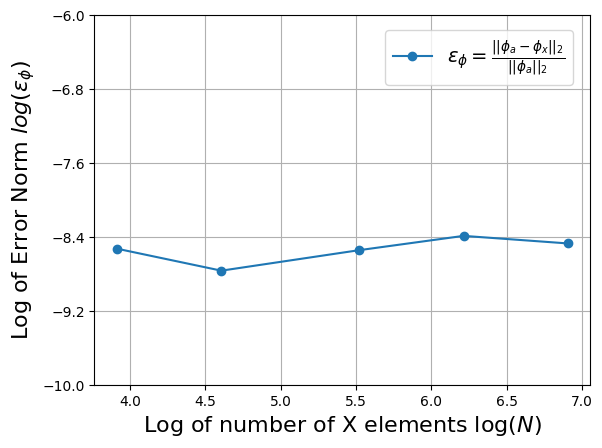
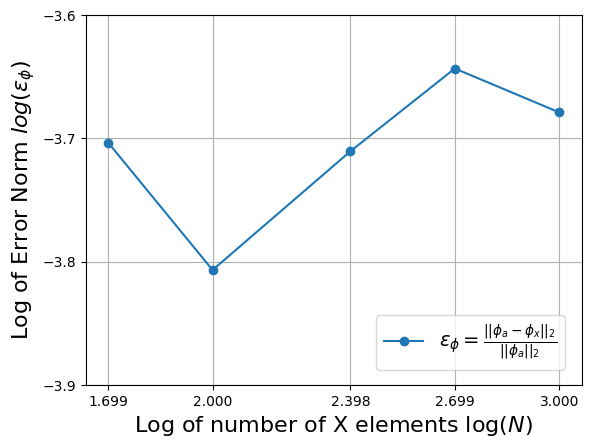
switched to log10

diff --git a/simulations/visualization/no_ss_no_mesh_template_flux_relaxation_on/viz.py b/simulations/visualization/no_ss_no_mesh_template_flux_relaxation_on/viz.py
@@ -10,7 +10,7 @@ import pandas as pd
 # list mesh element sizes that will be used to iterate through all cases
 # n_elems = [50,100,250,500,1000]
 n_elems = [50,100,250,500,1000]
-log_N = np.log(n_elems)
+log_N = np.log10(n_elems)
 L = 106.47 # equilibrium length from paper
 P = 1.0e22 # eV/s
 T0 = 293 # K
@@ -128,11 +128,12 @@ for n in n_elems:
     filename = f"openmc_{n}_out.csv"
     df_norms = pd.read_csv(filename)
     last_val  = df_norms.iloc[len(df_norms)-1,-1]
-    log_temp_error_norms.append(np.log(last_val))
-
+    log_temp_error_norms.append(np.log10(last_val))
+print(log_temp_error_norms)
 # plot the error for each threshold against the number of mesh elements
 plt.plot(log_N,log_temp_error_norms,'-ro',label=r'$\epsilon_{T}=\frac{||T_{a} - T_{x} ||_{2}}{|| T_{a} ||_{2}}$')
-plt.yticks(np.linspace(-6,-10,6))
+plt.xticks(log_N)
+plt.yticks([-2.75,-3,-3.25,-3.5,-3.75,-4,-4.25])
 # plt.ticklabel_format(axis='y', style='sci', scilimits=(0,0))
 plt.xlabel(r"Log of number of X elements $\log(N)$",fontsize=16)
 plt.ylabel(r"Log of Error Norm $log(\epsilon_{T})$",fontsize=16)
@@ -144,36 +145,37 @@ plt.clf()
 
 # linear polynomial fit to get slope of line of best fit temp
 pt = np.polyfit(log_N,log_temp_error_norms,1)
-print("polyfit:" , pt)
+print("polyfit pt:" , pt)
 
-# compute flux error norm
-flux_deviations = {}
-flux_dev_norms = {}
-analytical_norms = {}
-flux_error_norms = {}
-# flux error ratio
-for n in n_elems:
-    flux_deviations[n] = []
-    # compute mean, stdev, and analytical - numerical
-    for i in range(n):
-        flux_deviations[n].append(analytical_phi[n][i]-cardinal_fluxes[n][i])
-    flux_dev_norms[n] = np.linalg.norm(flux_deviations[n],ord=2)
-    analytical_norms[n] = np.linalg.norm(analytical_phi[n],ord=2)
-    # ratio is error norm
-    flux_error_norms[n] = flux_dev_norms[n]/analytical_norms[n]
+# MOVED TO RESTARTS DIRECTORY BUT COMMENTED OUT FOR POSTERITY
+# # compute flux error norm
+# flux_deviations = {}
+# flux_dev_norms = {}
+# analytical_norms = {}
+# flux_error_norms = {}
+# # flux error ratio
+# for n in n_elems:
+#     flux_deviations[n] = []
+#     # compute mean, stdev, and analytical - numerical
+#     for i in range(n):
+#         flux_deviations[n].append(analytical_phi[n][i]-cardinal_fluxes[n][i])
+#     flux_dev_norms[n] = np.linalg.norm(flux_deviations[n],ord=2)
+#     analytical_norms[n] = np.linalg.norm(analytical_phi[n],ord=2)
+#     # ratio is error norm
+#     flux_error_norms[n] = flux_dev_norms[n]/analytical_norms[n]
 
-log_flux_error_norms = [np.log(flux_error_norms[n]) for n in n_elems]
-print(log_flux_error_norms)
-# linear polynomial fit to get slope of line of best fit
-pf = np.polyfit(log_N,log_flux_error_norms,1)
-print("polyfit:" , pf)
+# log_flux_error_norms = [np.log10(flux_error_norms[n]) for n in n_elems]
+# print(log_flux_error_norms)
+# # linear polynomial fit to get slope of line of best fit
+# pf = np.polyfit(log_N,log_flux_error_norms,1)
+# print("polyfit pf:" , pf)
 
-plt.plot(log_N,log_flux_error_norms,'-o',label=r'$\epsilon_{\phi}=\frac{||\phi_{a} - \phi_{x} ||_{2}}{|| \phi_{a} ||_{2}}$')
-plt.xlabel(r"Log of number of X elements $\log(N)$",fontsize=16)
-plt.ylabel(r"Log of Error Norm $log(\epsilon_{\phi})$",fontsize=16)
-# plt.title("Flux Error Norm vs Mesh Size \n 200 Picard Iterations with Relaxation")
-plt.yticks(np.linspace(-6,-10,6))
-plt.grid()
-plt.legend(bbox_to_anchor=[0.985,0.985],fontsize=14)
-plt.savefig("flux_error_norms.png",bbox_inches='tight')
-plt.clf()
+# plt.plot(log_N,log_flux_error_norms,'-o',label=r'$\epsilon_{\phi}=\frac{||\phi_{a} - \phi_{x} ||_{2}}{|| \phi_{a} ||_{2}}$')
+# plt.xlabel(r"Log of number of X elements $\log(N)$",fontsize=16)
+# plt.ylabel(r"Log of Error Norm $log(\epsilon_{\phi})$",fontsize=16)
+# # plt.title("Flux Error Norm vs Mesh Size \n 200 Picard Iterations with Relaxation")
+# plt.yticks(np.linspace(-6,-10,6))
+# plt.grid()
+# plt.legend(bbox_to_anchor=[0.985,0.985],fontsize=14)
+# plt.savefig("flux_error_norms.png",bbox_inches='tight')
+# plt.clf()

diff --git a/simulations/no_ss_no_mesh_template/restarts/re-viz/visualize_results_flux_only.py b/simulations/no_ss_no_mesh_template/restarts/re-viz/visualize_results_flux_only.py
@@ -6,7 +6,7 @@ import pandas as pd
 
 # list mesh element sizes that will be used to iterate through all cases
 n_elems = [50,100,250,500,1000]
-log_N = np.log(n_elems)
+log_N = np.log10(n_elems)
 L = 106.47 # equilibrium length from paper
 P = 1.0e22 # eV/s
 T0 = 293 # K
@@ -158,19 +158,20 @@ for n in n_elems:
     plt.clf()
 
 
-log_flux_error_norms = [np.log(flux_error_norms[n]) for n in n_elems]
+log_flux_error_norms = [np.log10(flux_error_norms[n]) for n in n_elems]
 # print(log_flux_error_norms)
 # # linear polynomial fit to get slope of line of best fit
 # pf = np.polyfit(log_N,log_flux_error_norms,1)
 # print("polyfit:" , pf)
-
+print(log_flux_error_norms)
 # plot mesh elements vs flux error norms
 plt.plot(log_N,log_flux_error_norms,'-o',label=r'$\epsilon_{\phi}=\frac{||\phi_{a} - \phi_{x} ||_{2}}{|| \phi_{a} ||_{2}}$')
 plt.xlabel(r"Log of number of X elements $\log(N)$",fontsize=16)
 plt.ylabel(r"Log of Error Norm $log(\epsilon_{\phi})$",fontsize=16)
 # plt.title("Flux Error Norm vs Mesh Size \n 200 Picard Iterations with Relaxation")
-plt.yticks(np.linspace(-6,-10,6))
+plt.xticks(log_N)
+plt.yticks([-3.6,-3.7,-3.8,-3.9])
 plt.grid()
-plt.legend(bbox_to_anchor=[0.985,0.985],fontsize=14)
+plt.legend(bbox_to_anchor=[0.985,0.215],fontsize=14)
 plt.savefig("flux_error_norms.png",bbox_inches='tight')
 plt.clf()
